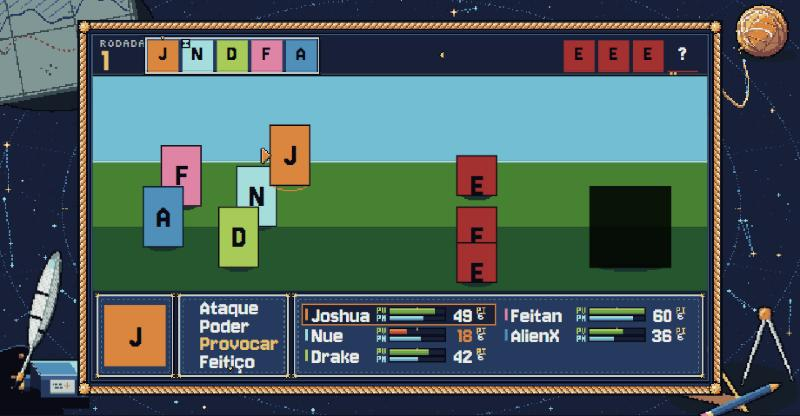
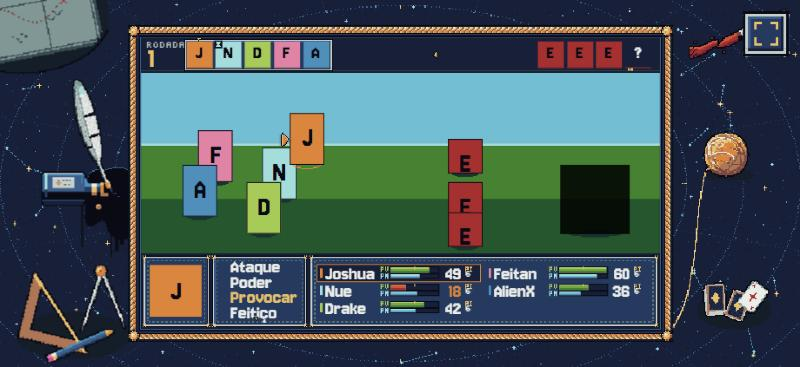
palco: tinteiro visto de cima e virado para dentro, mesa espalhada sem simetria, baralho (Wesley) e pincel vermelho-sangue (Nue)

diff --git a/src/palco/main.js b/src/palco/main.js
@@ -25,18 +25,26 @@ const fundo = document.getElementById('fundo-palco');
 fundo.style.backgroundImage = 'url(./assets/ui/fundo-palco.png)';
 const ceu = criarCeu(fundo);
 
-// ───────────── Objetos da mesa, presos aos cantos da tela ─────────────
-// Cada um: tamanho da imagem e onde fica, a partir da largura (L) e altura (A) da tela em
-// pixels da grade. Ficam por baixo da moldura e do palco; podem sair da tela de propósito.
-// Pontos de encaixe (de scripts/gerar-moldura-palco.mjs): boca do tinteiro (2, 26), virada
-// para a beirada da tela; bico da pena (3, 112); saída do fio do novelo (14, 40).
+// ───────────── Objetos da mesa, espalhados em volta do palco ─────────────
+// Uma mesa de verdade: cada objeto num lugar diferente, em alturas diferentes, pouca simetria;
+// uns metidos debaixo da moldura, outros saindo da tela. As posições contam a partir do canto
+// do palco (px, py) e, em telas largas, os objetos se afastam um pouco ("folga"), para ocupar
+// a mesa inteira em vez de se amontoar perto da moldura.
+// Pontos de encaixe (de scripts/gerar-moldura-palco.mjs): boca do tinteiro (62, 19), virada
+// para DENTRO (para o palco); bico da pena (40, 112); saída do fio do novelo (14, 40).
+// Objetos dos personagens (um por PJ): baralho = Wesley, pincel = Nue. Joshua, Drake e Hilda:
+// depois da sessão 0 (o lugar deles já está pensado: o lado direito tem menos objetos).
+const BOCA_TINTEIRO = { x: -22, y: 140 }; // onde fica a boca do tinteiro, a partir do palco
 const OBJETOS_DA_MESA = {
-  mapa: { largura: 170, altura: 124, onde: () => ({ x: -50, y: -36 }) }, // canto de cima à esquerda
-  novelo: { largura: 60, altura: 56, onde: (L) => ({ x: L - 62, y: -2 }) }, // canto de cima à direita
-  instrumentos: { largura: 120, altura: 100, onde: (L, A) => ({ x: L - 116, y: A - 90 }) }, // baixo, direita
-  tinteiro: { largura: 66, altura: 50, onde: (L, A) => ({ x: 6, y: A - 52 }) }, // baixo, esquerda
-  // A pena com o bico mergulhado na poça, logo abaixo da boca do tinteiro.
-  pena: { largura: 44, altura: 116, onde: (L, A) => ({ x: 6 + 2 + 2 - 3, y: A - 52 + 26 + 7 - 112 }) },
+  // Esquerda: o mapa saindo pelo alto, a pena e o tinteiro no meio, os instrumentos embaixo.
+  mapa: { largura: 170, altura: 124, onde: (px, py, f) => ({ x: px - 170 - f, y: py - 90 }) },
+  tinteiro: { largura: 64, altura: 40, onde: (px, py, f) => ({ x: px + BOCA_TINTEIRO.x - 62 - f * 0.3, y: py + BOCA_TINTEIRO.y - 19 }) },
+  pena: { largura: 44, altura: 116, onde: (px, py, f) => ({ x: px + BOCA_TINTEIRO.x + 6 - 40 - f * 0.3, y: py + BOCA_TINTEIRO.y + 8 - 112 }) },
+  instrumentos: { largura: 120, altura: 100, onde: (px, py, f) => ({ x: px - 104 - f * 0.7, y: py + 206 }) },
+  // Direita: o pincel da Nue saindo pelo alto, o novelo no meio, o baralho do Wesley embaixo.
+  pincel: { largura: 96, altura: 56, onde: (px, py, f) => ({ x: px + 476 + f, y: py - 34 }) },
+  novelo: { largura: 60, altura: 56, onde: (px, py, f) => ({ x: px + 494 + f * 0.5, y: py + 82 }) },
+  baralho: { largura: 78, altura: 60, onde: (px, py, f) => ({ x: px + 484 + f * 0.8, y: py + 214 }) },
 };
 const objetosMesa = {};
 for (const [nome, o] of Object.entries(OBJETOS_DA_MESA)) {
@@ -91,16 +99,18 @@ function ajustarEscala() {
   const A = Math.ceil(window.innerHeight / escalaCss);
   const px = Math.round(esquerda / escalaCss);
   const py = Math.round(topo / escalaCss);
+  const folga = Math.max(0, px - 70) * 0.5; // sobra de mesa em telas largas
   const pos = {};
   for (const [nome, o] of Object.entries(OBJETOS_DA_MESA)) {
-    pos[nome] = o.onde(L, A);
+    pos[nome] = o.onde(px, py, folga);
     objetosMesa[nome].style.left = `${pos[nome].x}px`;
     objetosMesa[nome].style.top = `${pos[nome].y}px`;
   }
   ceu.atualizar(L, A, { x: px + 240, y: py + 135 }, [{ x: px - 12, y: py - 12, w: 504, h: 294 }], {
-    tinta: { x: pos.tinteiro.x + 1, y: pos.tinteiro.y + 27 },
-    // O fio sai do novelo, cai numa barriga pela lateral e sobe até o nó do canto de cima à direita.
-    fio: { de: { x: pos.novelo.x + 14, y: pos.novelo.y + 40 }, para: { x: px + 486, y: py - 6 } },
+    // A tinta sai da boca do tinteiro e escorre para dentro, por baixo do palco.
+    tinta: { x: pos.tinteiro.x + 63, y: pos.tinteiro.y + 20 },
+    // O fio sai do novelo, desce solto pela lateral e entra no nó do canto de baixo à direita.
+    fio: { de: { x: pos.novelo.x + 14, y: pos.novelo.y + 40 }, para: { x: px + 486, y: py + 276 } },
   });
   // Botão com pelo menos ~34 px de tela (bom para o dedo), ampliado por número inteiro de pixels reais.
   botaoTelaCheia.style.zoom = Math.ceil((34 * dpr) / 17) / dpr;

diff --git a/src/palco/ceu.js b/src/palco/ceu.js
@@ -33,9 +33,8 @@ const PISCA = pixelArte(
  * de vez em quando, como as voltas do fio trançado da moldura.
  */
 function desenharFio(g, de, para) {
-  // Barriga para baixo: o fio "pendura" entre o novelo e o nó.
-  const c1 = { x: de.x + 26, y: de.y + 62 };
-  const c2 = { x: para.x - 8, y: para.y + 74 };
+  const c1 = { x: de.x - 14, y: de.y + 46 };
+  const c2 = { x: para.x + 34, y: para.y - 40 };
   let anterior = null;
   for (let t = 0; t <= 1; t += 0.002) {
     const m = 1 - t;
@@ -83,9 +82,9 @@ export function criarCeu(fundo) {
       if (raio <= 0) return false;
       const dx = x - fonte.x;
       const dy = y - fonte.y;
-      // Escorre mais para baixo do que para cima, e um pouco mais para a esquerda (para onde
-      // a boca do tinteiro aponta: a beirada da tela).
-      const ex = dx < 0 ? dx * 0.85 : dx * 1.15;
+      // Escorre mais para baixo do que para cima, e mais para a direita: para onde a boca do
+      // tinteiro aponta (para dentro, por baixo do palco).
+      const ex = dx > 0 ? dx * 0.75 : dx * 1.3;
       const ey = dy > 0 ? dy * 0.7 : dy * 1.6;
       const angulo = Math.atan2(ey, ex);
       let r = raio;

diff --git a/docs/DADOS.md b/docs/DADOS.md
@@ -73,13 +73,16 @@ O app funciona sem arte nenhuma: o que faltar vira o desenho provisório. Quando
 | Cenário | `assets/cenarios/<arquivo>` (nome em `cenarios.json`) | 480×270 |
 | Moldura em volta do palco (o fio) | `assets/ui/moldura-palco.png` | 34×34: cantos de 12 (o nó), trecho de 10 no meio que se repete (o fio) |
 | Papel do mapa celeste (em volta) | `assets/ui/fundo-palco.png` | ladrilho que se repete (64×64 hoje; qualquer tamanho serve). Anéis, estrelas e tinta são do código. |
-| A pena (canto de baixo à esquerda) | `assets/ui/ornamento-pena.png` | 44×116; o bico fica em (3, 112), dentro da poça |
-| O tinteiro tombado (canto de baixo à esquerda) | `assets/ui/ornamento-tinteiro.png` | 66×50; a tinta sai da boca, em (2, 26) |
-| O novelo (canto de cima à direita) | `assets/ui/ornamento-novelo.png` | 60×56; o fio sai em (14, 40) e o código o desenha até o nó da moldura |
-| O mapa (canto de cima à esquerda, metade fora da tela) | `assets/ui/ornamento-mapa.png` | 170×124 |
-| Esquadro, compasso e lápis (canto de baixo à direita) | `assets/ui/ornamento-instrumentos.png` | 120×100 |
+| A pena (esquerda, no meio) | `assets/ui/ornamento-pena.png` | 44×116; o bico fica em (40, 112), dentro da poça |
+| O tinteiro tombado, visto de cima (esquerda, no meio) | `assets/ui/ornamento-tinteiro.png` | 64×40; a tinta sai da boca, em (62, 19), virada para o palco |
+| O mapa (esquerda, saindo pelo alto) | `assets/ui/ornamento-mapa.png` | 170×124 |
+| Esquadro, compasso e lápis (esquerda, embaixo) | `assets/ui/ornamento-instrumentos.png` | 120×100 |
+| O novelo (direita, no meio) | `assets/ui/ornamento-novelo.png` | 60×56; o fio sai em (14, 40) e o código o desenha até o nó do canto de baixo |
+| Pincel com tinta vermelho-sangue: **Nue** (direita, saindo pelo alto) | `assets/ui/ornamento-pincel.png` | 96×56 |
+| Baralho: **Wesley** (direita, embaixo) | `assets/ui/ornamento-baralho.png` | 78×60 |
+| Objetos de Joshua, Drake e Hilda | a definir (sessão 0) | |
 
-As posições e tamanhos de cada objeto ficam em `src/palco/main.js`, na lista `OBJETOS_DA_MESA` (presos aos cantos da tela). Mudou o tamanho de um PNG? Ajuste ali a largura e a altura.
+As posições e tamanhos de cada objeto ficam em `src/palco/main.js`, na lista `OBJETOS_DA_MESA` (contadas a partir do canto do palco). Mudou o tamanho de um PNG? Ajuste ali a largura e a altura.
 
 - **`<id>`** é o que você escreve nos campos SPRITE e RETRATO da ficha do combatente, na mesa (só letras sem acento, números, `-` e `_`).
 - **Poses** (o nome do arquivo): `parado` (obrigatória, é a reserva de todas), `caido` (herói com 0 PV), `fase2` e `fase3` (vilão depois de trocar de fase). Pose que não existe = usa `parado`.

diff --git a/docs/DECISOES.md b/docs/DECISOES.md
@@ -297,3 +297,14 @@ Cada decisão com o motivo, em linguagem simples. Atualizado a cada marco.
 - **O fio do novelo é desenhado pelo código** (`desenharFio` em `ceu.js`): uma curva com barriga e uma ondulação leve, do novelo até o nó do canto de cima à direita da moldura. Ele se adapta a qualquer tamanho de tela.
 - **Tinteiro virado** para a beirada da tela: a poça escorre para onde dá para ver (e um pouco para fora da tela), e a **pena fica com o bico dentro da poça**. A poça mínima (tinta 0) já é grande o bastante para cobrir o bico.
 - Os PNGs da pena e do tinteiro são desenhados com a luz do alto à esquerda e **espelhados** no fim do script (`espelhar`); os pontos de encaixe já estão espelhados nos comentários.
+
+### Moldura do palco, versão 7: mesa espalhada e os objetos dos personagens
+- Retorno do Cadu: a perspectiva do tinteiro estava errada (**a mesa é vista de cima**); levar tudo para os cantos **não** era a resposta: é para **espalhar, com pouca simetria, como uma mesa de verdade**; e **a tinta escorre para dentro**, então o tinteiro fica **virado para o palco**.
+- **Tinteiro visto de cima** (64×40): a face de cima com o rótulo, uma faixinha da lateral embaixo (a espessura), a tinta lá dentro escurecendo o lado de baixo do vidro, gargalo e boca para a direita (para o palco). A rolha caída virou um disco de cortiça. Sem sombra.
+- **Layout espalhado** (`OBJETOS_DA_MESA` em `src/palco/main.js`): as posições contam a partir do canto do palco, em alturas diferentes, uns debaixo da moldura e outros saindo da tela. Em telas largas, os objetos se afastam um pouco do palco (a "folga"), para ocupar a mesa toda.
+  - **Esquerda:** mapa saindo pelo alto, pena e tinteiro no meio (a tinta escorre para dentro, por baixo do palco) e instrumentos embaixo.
+  - **Direita:** pincel saindo pelo alto, novelo no meio (o fio desce solto até o nó do canto de baixo) e baralho embaixo.
+- **Um objeto por personagem (PJ)** (decisão do Cadu):
+  - **Wesley:** um baralho, com o monte, cartas espalhadas e uma virada (estrela vermelha).
+  - **Nue:** um pincel molhado de tinta **vermelho-sangue**, com a pincelada que ele deixou. Reforça a ideia de que quem está nessa mesa "produz" o mapa do centro.
+  - **Joshua, Drake e Hilda:** a definir depois da sessão 0. O lado direito tem menos objetos e espera por eles.
